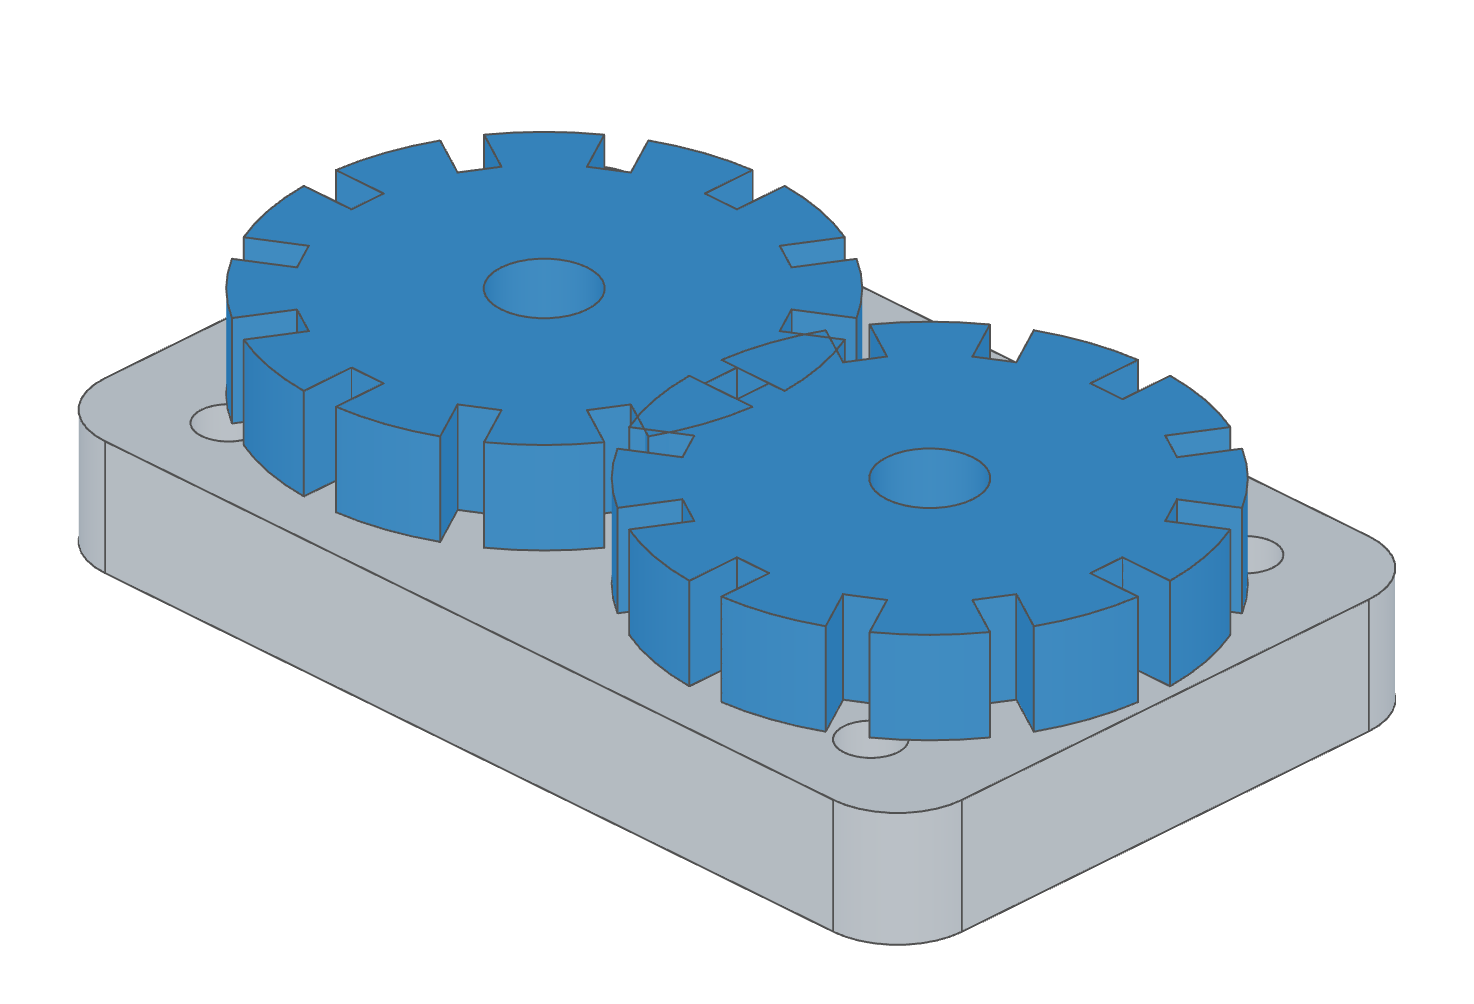
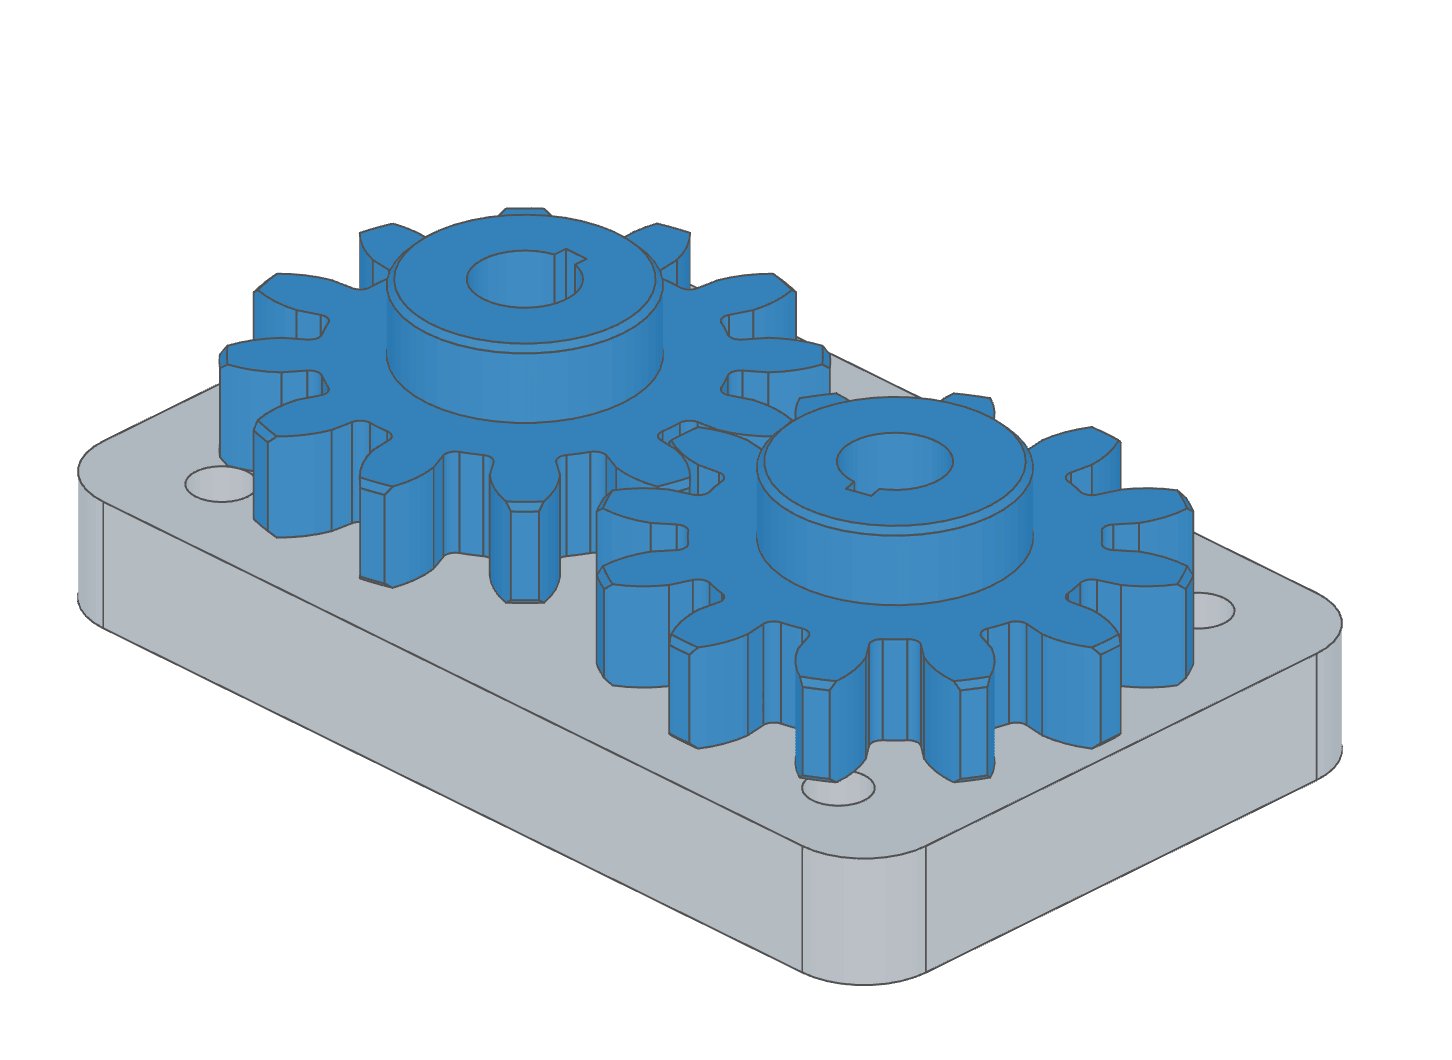
docs: the assembly gear is a real spur gear — involute-fitted arc flanks with root fillets, tip chamfers, a hub, a keyed Ø8 bore and a lightening-holed web from 20 teeth — and the wheels are phased half a tooth so each pair meshes; gear and gearbox screenshots retaken

diff --git a/website/docs/assembly/_examples/asm-gear.part.js b/website/docs/assembly/_examples/asm-gear.part.js
@@ -1,41 +1,155 @@
 // @screenshot skip
-import { part, param, sketch, line, circle, extrude, cut, repeat, color, plane, connector } from 'fluidcad/core';
-import { coincident, distance, fix, horizontal, vertical } from 'fluidcad/constraints';
+import { part, param, sketch, line, arc, point, circle, extrude, cut, chamfer, fillet, repeat, color, plane, connector, origin, xAxis, yAxis } from 'fluidcad/core';
+import { coincident, diameter, distance, fix, radius, symmetric, vertical } from 'fluidcad/constraints';
 
-// A spur gear, 3 mm module: the pitch radius is 1.5 × the tooth count.
-// A disc with a Ø8 bore, teeth cut as evenly spaced notches around the rim.
+// A spur gear: module 3, 20° pressure angle, 8 mm face width.
 export const gear = part('Gear', () => {
     const teeth = param('teeth', 12, 'number', { min: 8, max: 48, step: 1 });
-    const pitchRadius = teeth * 1.5;
+
+    // The standard proportions. The pitch circle is the one two meshing
+    // gears roll on: its radius is half the module times the teeth, so two
+    // gears sit (m / 2) × (z1 + z2) apart.
+    const m = 3;
+    const pressureAngle = 20 * Math.PI / 180;
+    const pitchR = m * teeth / 2;
+    const baseR = pitchR * Math.cos(pressureAngle);   // the involutes unwind from here
+    const tipR = pitchR + m;                          // addendum: one module
+    const rootR = pitchR - 1.25 * m;                  // dedendum: 1.25 modules
+    const rootFillet = 0.3 * m;
+    const backlash = 0.1;                             // tooth 0.1 mm thinner than half the pitch
+    const faceWidth = 8;
+    const hubD = Math.min(10 + m * teeth / 4, 2 * rootR - 4);
+    const hubHeight = 6;
+    const rimR = rootR - 2 * m;                       // the rim under the teeth: 2 modules deep
+    const holeR = (rimR + hubD / 2) / 2;              // lightening holes, centred on the web
+    const holeD = 0.6 * (rimR - hubD / 2);
+
+    // The involute flank of a tooth gap, at roll angle t: the point
+    // baseR·√(1 + t²) from the centre, at the polar angle gapHalf + t − atan t.
+    // gapHalf is the gap's half-angle on the base circle, chosen so the gap is
+    // half the circular pitch (π·m / 2) wide on the pitch circle, plus the
+    // backlash.
+    const inv = (r) => Math.tan(Math.acos(baseR / r)) - Math.acos(baseR / r);
+    const gapHalf = Math.PI / (2 * teeth) - inv(pitchR) + backlash / (2 * pitchR);
+    const involute = (t) => {
+        const r = baseR * Math.sqrt(1 + t * t);
+        const a = gapHalf + t - Math.atan(t);
+        return [r * Math.cos(a), r * Math.sin(a)];
+    };
+    // Each flank is drawn as the circular arc through three involute points:
+    // where it leaves the root run (the base circle, or just above the root
+    // fillet when the base circle sits below the root), half-way, and 1 mm
+    // past the tip. Over the working depth it strays under 0.07 mm from the
+    // true involute.
+    const startR = Math.max(baseR, rootR + 1.5 * rootFillet);
+    const t0 = Math.sqrt((startR / baseR) ** 2 - 1);
+    const t2 = Math.sqrt(((tipR + 1) / baseR) ** 2 - 1);
+    const t1 = (t0 + t2) / 2;
+    const [p0, p1, p2] = [involute(t0), involute(t1), involute(t2)];
+    // Its centre lies near where the flank's middle touches the base circle.
+    const centre = [baseR * Math.cos(gapHalf + t1), baseR * Math.sin(gapHalf + t1)];
+    const below = ([x, y]) => [x, -y];   // the mirror image across X
+
+    // The blank: a disc at the tip diameter, its rims chamfered — the teeth
+    // keep the chamfer at their tips.
     sketch('xy', () => {
-        // circle() takes a diameter: the blank reaches 3 mm past the pitch
-        // circle, and the bore is Ø8.
-        circle([0, 0], 2 * (pitchRadius + 3));
-        circle([0, 0], 8);
+        const c = circle([0, 0], 2 * tipR);
+        coincident(c.center(), origin());
+        diameter(c, 2 * tipR);
     });
-    const disc = extrude(8);
-    // One notch at the rim — a 5.5 × 3 mm slot straddling the pitch circle,
-    // drawn on the top face and cut down through the disc — repeated around
-    // the axis, once per tooth.
+    const disc = extrude(faceWidth);
+    chamfer(0.5, disc.startEdges(), disc.endEdges());
+
+    // One tooth gap, centred on +X: a root arc, a radial run up each side,
+    // the two flank arcs and an arc outside the tip that closes the outline.
     sketch(disc.endFaces(), () => {
-        const b = line([pitchRadius - 1.5, -1.5], [pitchRadius + 4, -1.5]);
-        const r = line([pitchRadius + 4, -1.5], [pitchRadius + 4, 1.5]);
-        const t = line([pitchRadius + 4, 1.5], [pitchRadius - 1.5, 1.5]);
-        const l = line([pitchRadius - 1.5, 1.5], [pitchRadius - 1.5, -1.5]);
-        coincident(b.end(), r.start());
+        const root = arc(below(p0), p0, [0, 0]);
+        const upRun = line([rootR, 1], p0);
+        const upFlank = arc(p0, p2, centre);
+        const outer = arc(below(p2), p2, [0, 0]);
+        const downFlank = arc(below(p2), below(p0), below(centre));
+        const downRun = line(below(p0), [rootR, -1]);
+        const upMid = point(p1);
+        const downMid = point(below(p1));
+        coincident(root.center(), origin());
+        radius(root, rootR);
+        coincident(root.end(), upRun.start());
+        coincident(upRun.end(), upFlank.start());
+        coincident(upFlank.end(), outer.end());
+        coincident(outer.start(), downFlank.start());
+        coincident(downFlank.end(), downRun.start());
+        coincident(downRun.end(), root.start());
+        // The runs are radial; the flank arcs pass through their three points.
+        coincident(origin(), upRun);
+        coincident(origin(), downRun);
+        fix(upFlank.start(), p0);
+        fix(upFlank.end(), p2);
+        fix(upMid, p1);
+        coincident(upMid, upFlank);
+        fix(downFlank.start(), below(p2));
+        fix(downFlank.end(), below(p0));
+        fix(downMid, below(p1));
+        coincident(downMid, downFlank);
+        radius(outer, tipR + 1);
+        // Round the two root corners.
+        fillet(rootFillet, root, upRun, downRun);
+    });
+    cut(faceWidth);
+    // … repeated around the axis, once per tooth.
+    repeat('circular', 'z', { count: teeth, angle: 360 });
+
+    // The hub: a boss standing 6 mm proud of the top face, wider on bigger
+    // gears but always inside the root circle.
+    sketch('xy', () => {
+        const c = circle([0, 0], hubD);
+        coincident(c.center(), origin());
+        diameter(c, hubD);
+    });
+    const hub = extrude(faceWidth + hubHeight);
+    chamfer(0.5, hub.endEdges());
+
+    // From 20 teeth up, a thinner web between the hub and the rim: a 2 mm
+    // recess in the top face and six lightening holes through it.
+    if (teeth >= 20) {
+        sketch(disc.endFaces(), () => {
+            const rim = circle([0, 0], 2 * rimR);
+            const boss = circle([0, 0], hubD);
+            coincident(rim.center(), origin());
+            coincident(boss.center(), origin());
+            diameter(rim, 2 * rimR);
+            diameter(boss, hubD);
+        });
+        cut(2);
+        sketch(disc.endFaces(), () => {
+            const c = circle([holeR, 0], holeD);
+            coincident(c.center(), xAxis());
+            distance(origin(), c.center(), holeR);
+            diameter(c, holeD);
+        });
+        cut();
+        repeat('circular', 'z', { count: 6, angle: 360 });
+    }
+
+    // The Ø8 bore with a 2 mm keyway, cut down through the hub.
+    sketch(hub.endFaces(), () => {
+        const bore = arc([-1, 3.9], [1, 3.9], [0, 0]);
+        const r = line([1, 3.9], [1, 5]);
+        const t = line([1, 5], [-1, 5]);
+        const l = line([-1, 5], [-1, 3.9]);
+        coincident(bore.end(), r.start());
         coincident(r.end(), t.start());
         coincident(t.end(), l.start());
-        coincident(l.end(), b.start());
-        horizontal(b);
-        horizontal(t);
+        coincident(l.end(), bore.start());
+        coincident(bore.center(), origin());
+        diameter(bore, 8);
         vertical(r);
         vertical(l);
-        fix(b.start(), [pitchRadius - 1.5, -1.5]);
-        distance(b.start(), b.end(), 5.5);
-        distance(r.start(), r.end(), 3);
+        symmetric(t.start(), t.end(), yAxis());
+        distance(t.start(), t.end(), 2);
+        distance(origin(), t, 5);
     });
-    cut(8);
-    repeat('circular', 'z', { count: teeth, angle: 360 });
+    cut();
+
     color('steelblue');
 
     // The bore frame on the underside: Z out of the bottom face, ready to

diff --git a/website/docs/assembly/_examples/asm-configurations.assembly.js b/website/docs/assembly/_examples/asm-configurations.assembly.js
@@ -1,4 +1,4 @@
-// @screenshot hideGrid
+// @screenshot hideGrid noAxes
 import { assembly, insert, param, configurations, mate, relation } from 'fluidcad/core';
 import { plate } from './asm-plate.part.js';
 import { gear } from './asm-gear.part.js';
@@ -24,12 +24,13 @@ export const gearbox = assembly('gearbox', () => {
 
     // Everything a configuration changes follows from the values: the gears'
     // tooth counts, the axle spacing (module 3: each pitch radius is
-    // 1.5 × the teeth, and the axles sit the sum of the two apart) and the
-    // gear relation's ratio.
+    // 1.5 × the teeth, and the axles sit the sum of the two apart), the
+    // wheel's mesh phase (turned to face the pinion, then half a tooth pitch
+    // on, so a tooth meets the pinion's gap) and the gear relation's ratio.
     const centre = 1.5 * (pinionTeeth + wheelTeeth);
     const base = insert(plate).grounded();
     const pinion = insert(gear, { teeth: pinionTeeth }).translate(-centre / 2, 0, 10);
-    const wheel = insert(gear, { teeth: wheelTeeth }).translate(centre / 2, 0, 10);
+    const wheel = insert(gear, { teeth: wheelTeeth }).rotate('z', 180 + 180 / wheelTeeth).translate(centre / 2, 0, 10);
     const pinionAxle = mate('revolute', base.connectors.top, pinion.connectors.bore).offset(-centre / 2, 0, 0);
     const wheelAxle = mate('revolute', base.connectors.top, wheel.connectors.bore).offset(centre / 2, 0, 0);
     relation('gear', pinionAxle, wheelAxle, pinionTeeth / wheelTeeth).reverse();

diff --git a/website/docs/assembly/_examples/asm-gear.assembly.js b/website/docs/assembly/_examples/asm-gear.assembly.js
@@ -1,3 +1,4 @@
+// @screenshot hideGrid noAxes solidsOnly crop 13,16,74,68
 import { assembly, insert, mate, relation, connector } from 'fluidcad/core';
 import { plate } from './asm-plate.part.js';
 import { gear } from './asm-gear.part.js';
@@ -7,7 +8,10 @@ export const gearTrain = assembly('gear-train', () => {
     // A 12-tooth pinion driving a 24-tooth wheel, 54 mm apart (the sum of
     // their pitch radii, 18 + 36).
     const pinion = insert(gear, { teeth: 12 }).translate(-27, 0, 10);
-    const wheel = insert(gear, { teeth: 24 }).translate(27, 0, 10);
+    // The part has a tooth gap on its +X side. Turned 180° the wheel would
+    // face the pinion with a gap too; half a tooth pitch more (180° / 24)
+    // puts a tooth there instead, into the pinion's gap.
+    const wheel = insert(gear, { teeth: 24 }).rotate('z', 180 + 180 / 24).translate(27, 0, 10);
 
     // Two axle frames on the plate's top face, as assembly connectors.
     const axle1 = connector('axle1', [-27, 0, 10]);
